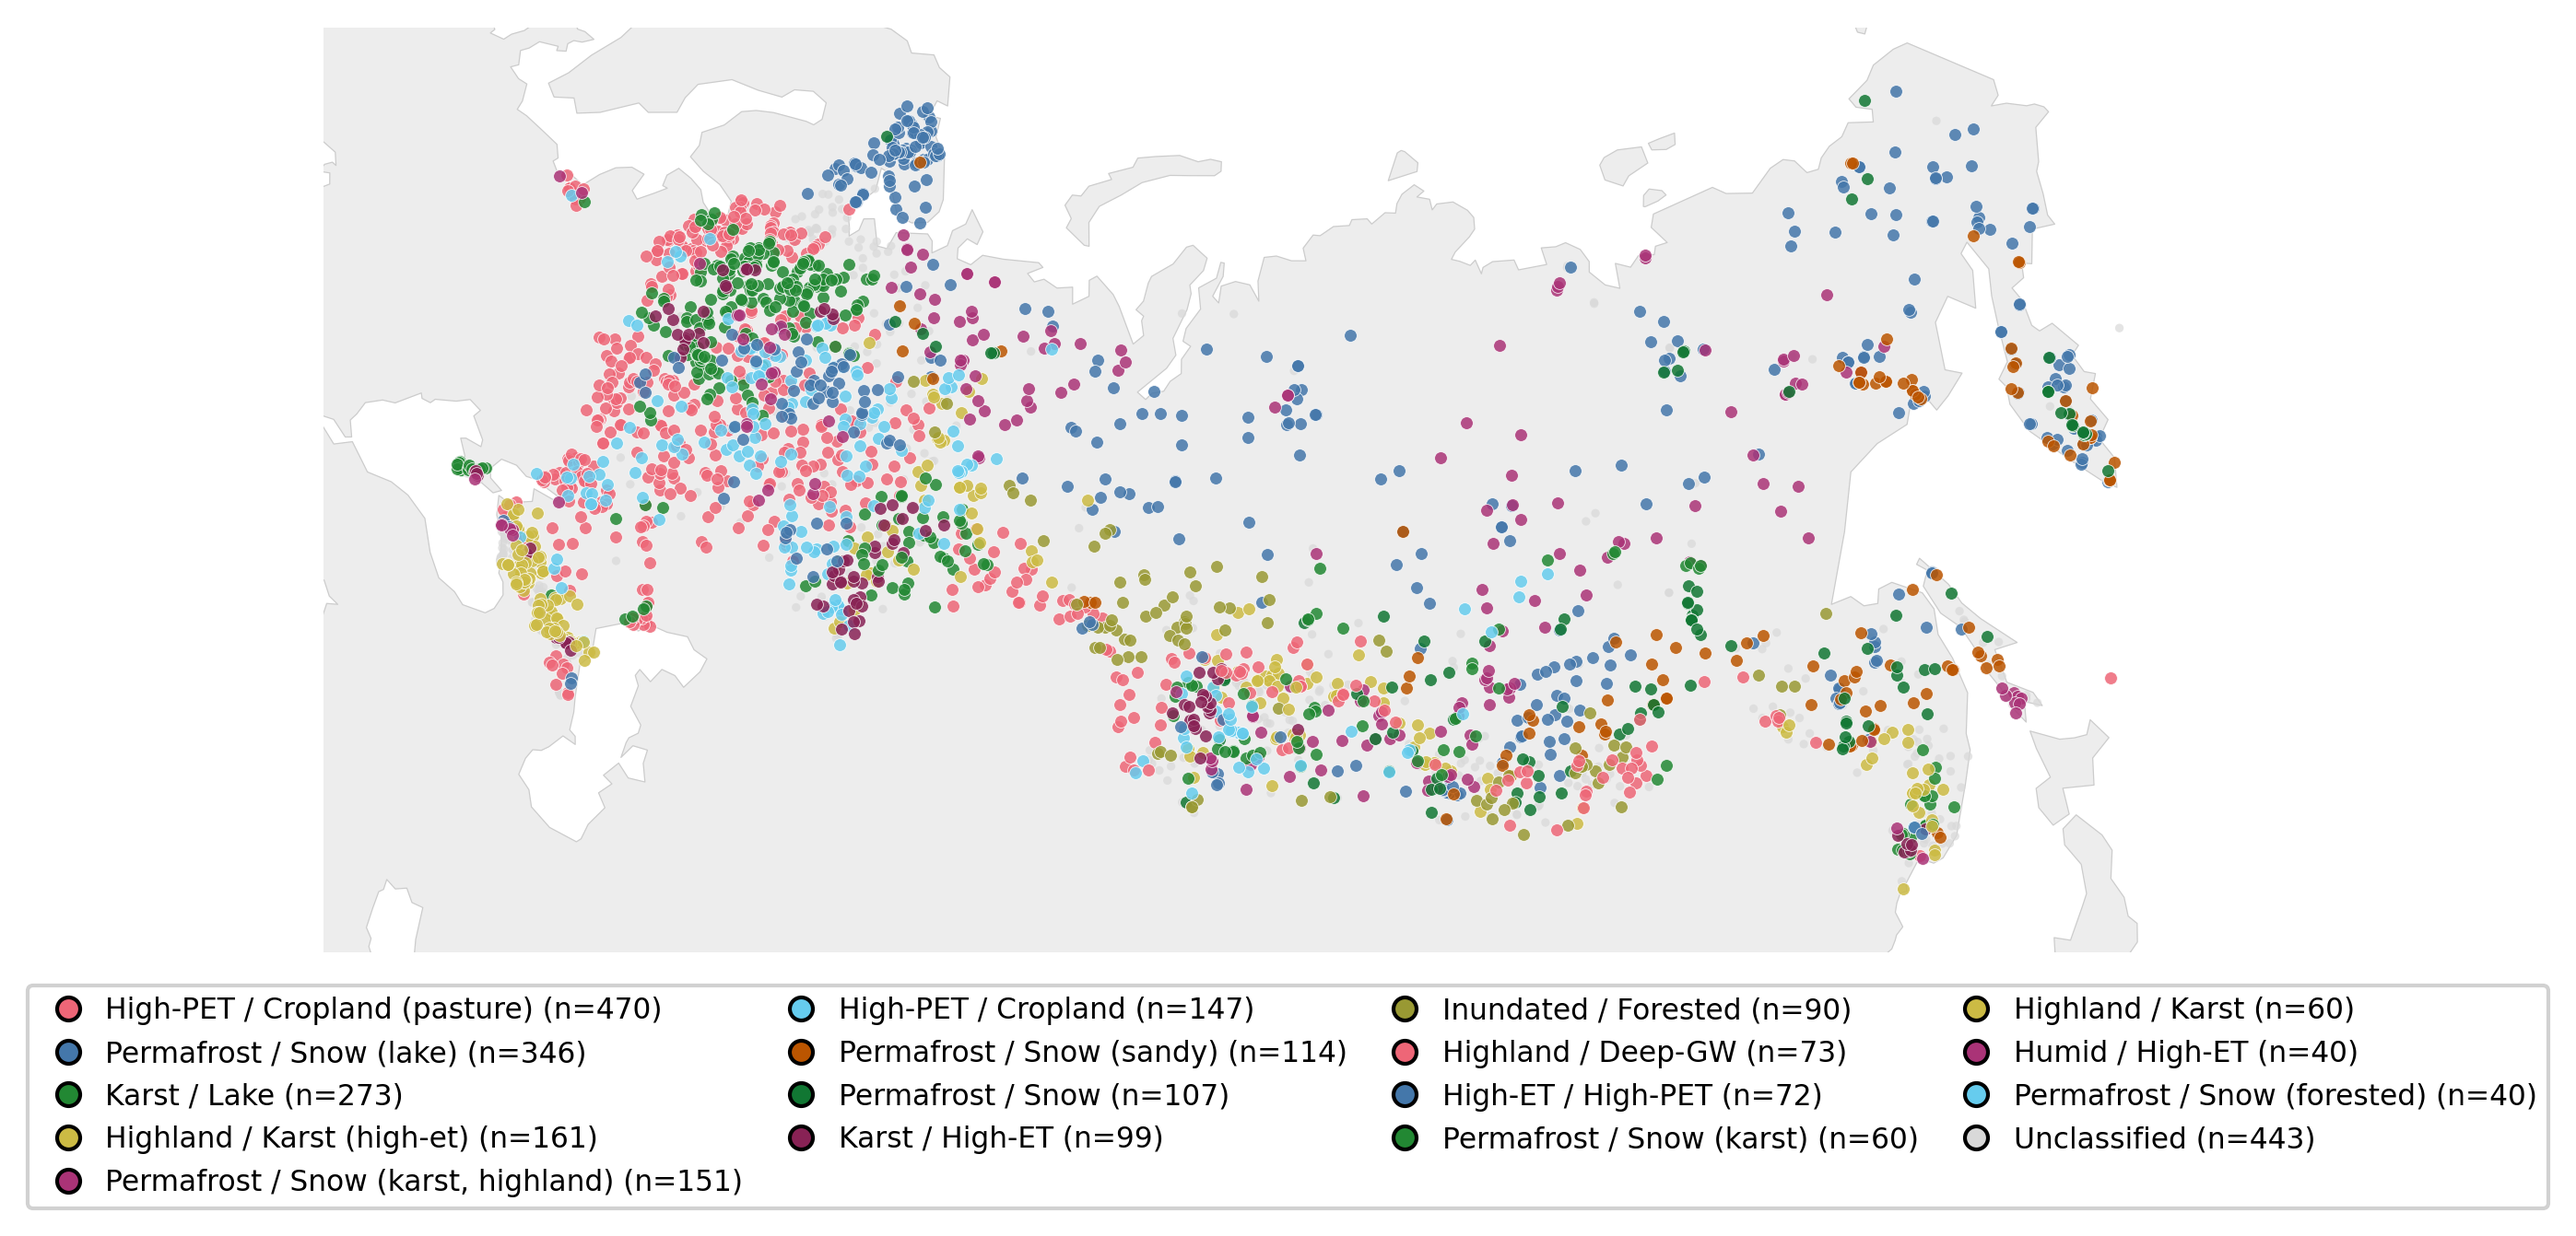
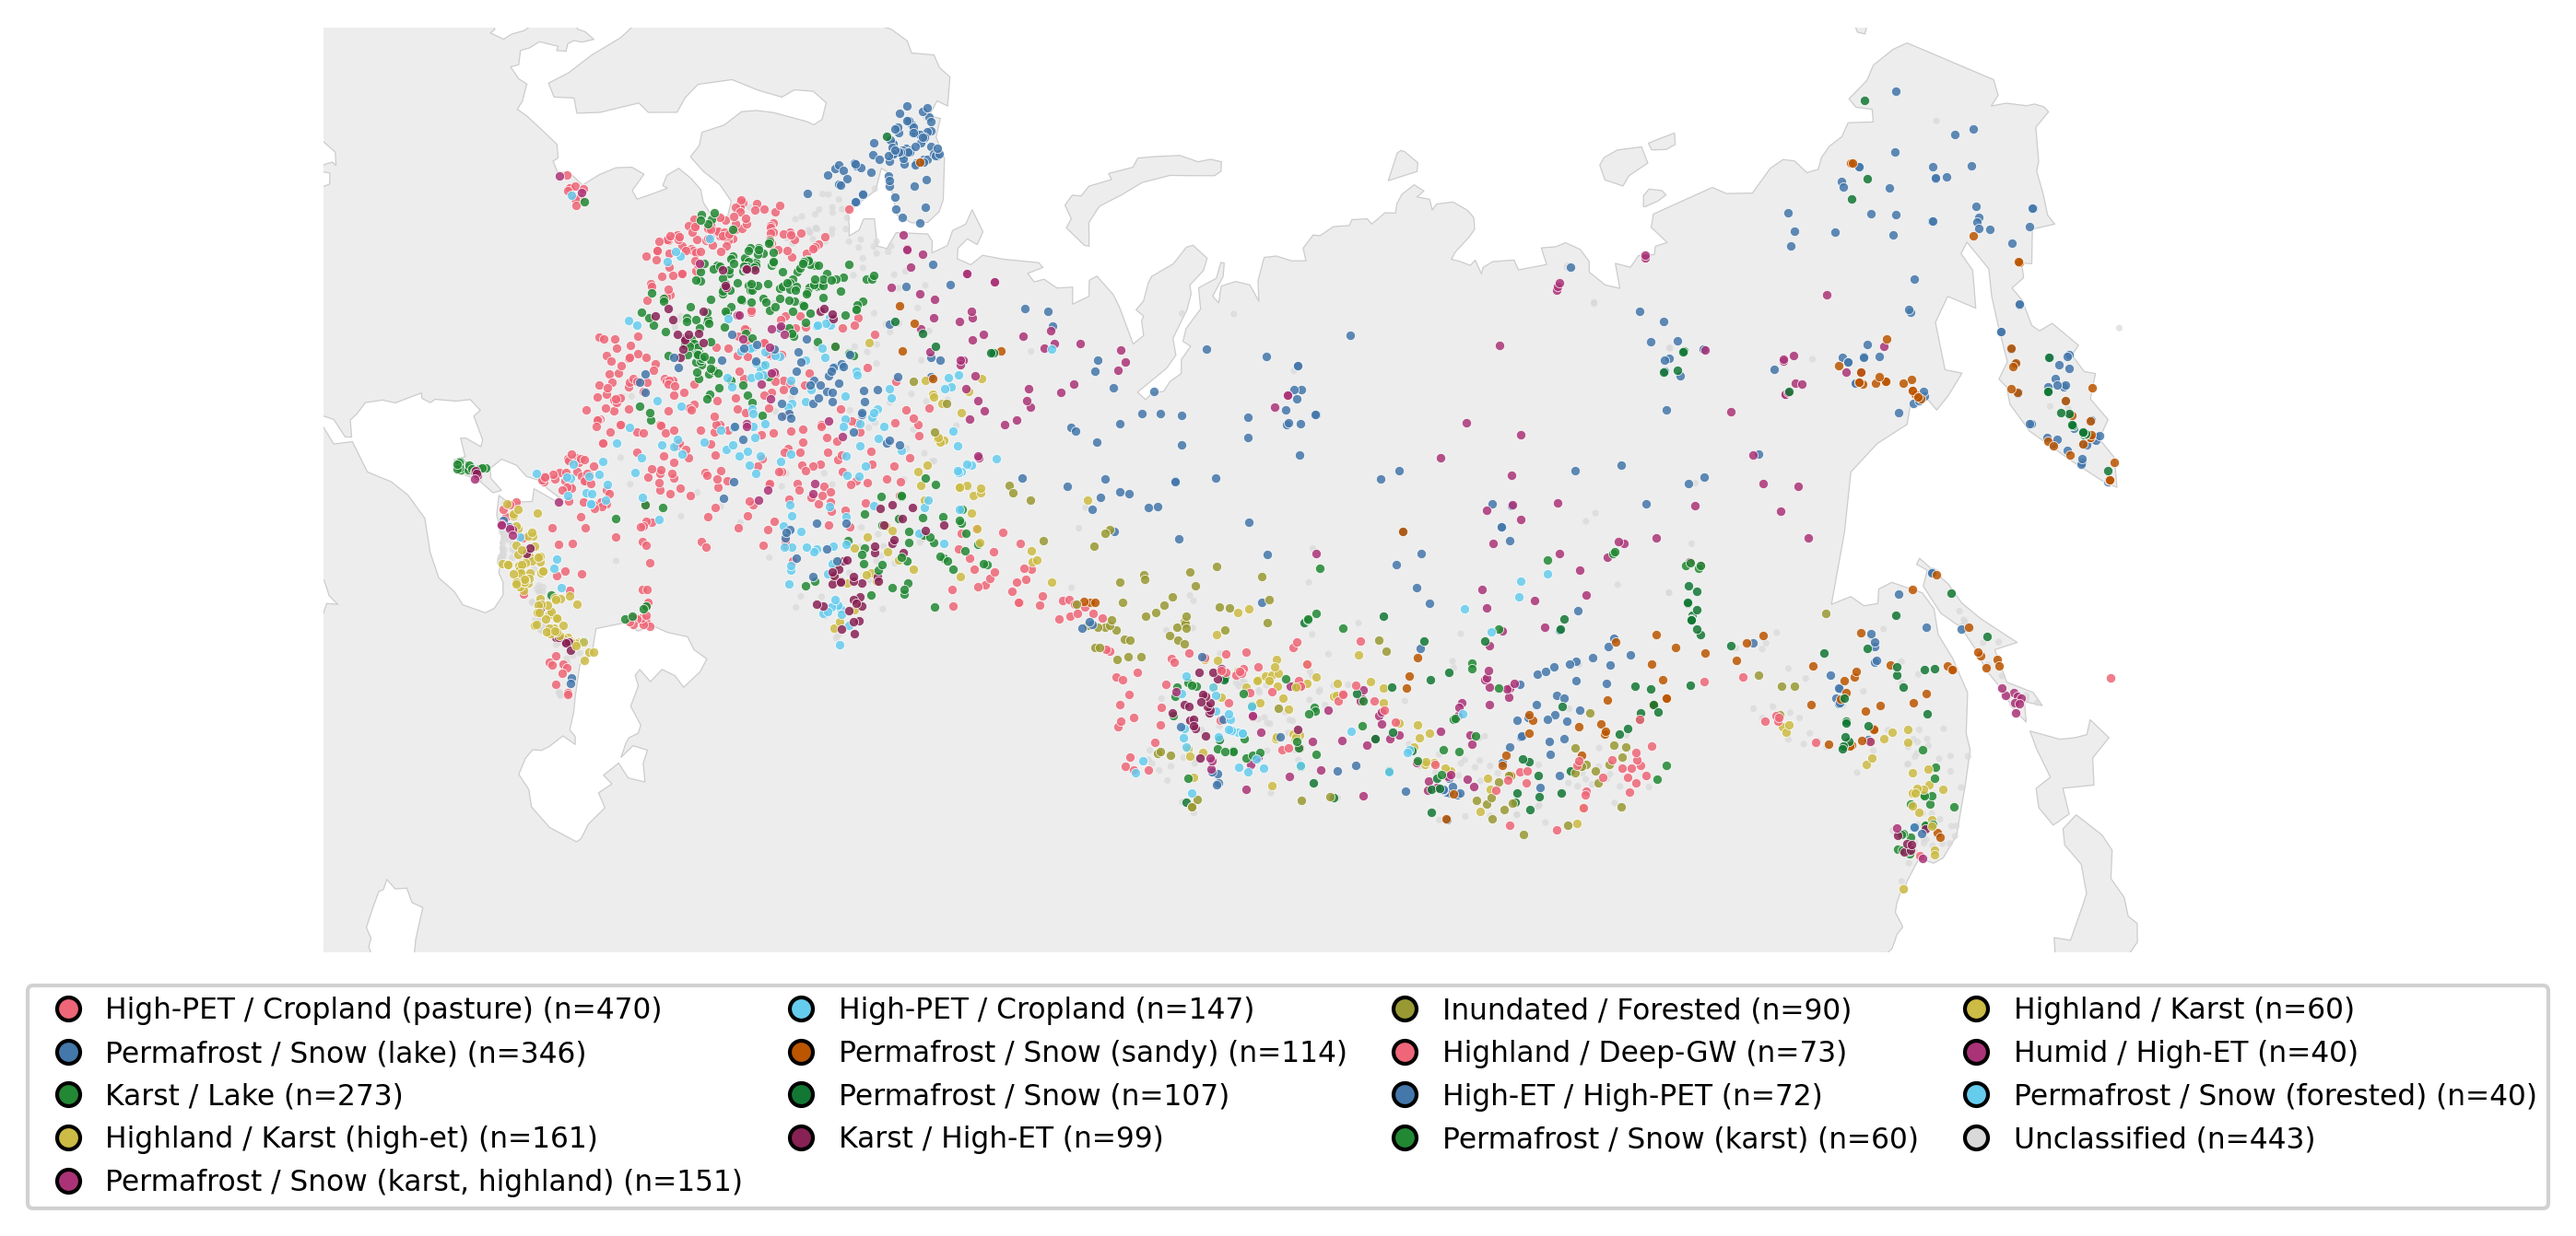
Smaller on-map markers (3 map scripts) + triad-dialogue verification record
- scripts/{cluster_endmembers,regenerate_regime_figures,regime_endmember_intersection}.py:
  reduced scatter marker sizes on the geographic maps; data/clustering unchanged.
- docs/dialogues/triad/2026-06-23-era5-temp-stale-cache-triad/: 3-vendor (Claude/Codex/Cursor)
  verification of the 2023-temp stale-cache fix. Converged turn 1. Outcome: diagnosis CONFIRMED
  (refined: 13 sub-5km² gauges hit the stale weight cache; 4 ≥5km² were cache-independent stale
  CSVs — both fixed by re-aggregation). Fix is release-safe. Three latent silent-failure patterns
  surfaced for follow-up: (1) --resume/detect_covered_months treats month-presence as data-validity
  → can silently skip re-aggregation network-wide; (2) _get_or_compute_weights cache not grid-keyed
  → bug recurs on next chronological run (durable fix needed); (3) package_forcing prefers
  era5_land_filled by file existence not forcing_notes membership (stale shadow cache can ship).
- Bump manuscript submodule (@ 7eb5fc3).

Claude-Session: https://claude.ai/code/session_01S7RmX8pNfnsAfuj5fC26Fx

diff --git a/scripts/regime_endmember_intersection.py b/scripts/regime_endmember_intersection.py
@@ -167,7 +167,7 @@ def plot_joint_map(ax, df: pd.DataFrame, gauge: gpd.GeoDataFrame) -> None:
     ax.scatter(
         g_rest.geometry.x,
         g_rest.geometry.y,
-        s=4,
+        s=2.5,
         c="#DcDcDc",
         edgecolors="none",
         zorder=2,
@@ -181,7 +181,7 @@ def plot_joint_map(ax, df: pd.DataFrame, gauge: gpd.GeoDataFrame) -> None:
         ax.scatter(
             g.geometry.x,
             g.geometry.y,
-            s=12,
+            s=7,
             c=col,
             edgecolors="white",
             linewidths=0.2,
@@ -226,9 +226,9 @@ def plot_agreement_map(ax, df: pd.DataFrame, gauge: gpd.GeoDataFrame, stats: dic
 
     cat = df.apply(status, axis=1)
     styles = {
-        "concordant": ("#117733", 11, f"Concordant (n={int((cat == 'concordant').sum())})"),
-        "discordant": ("#CC6677", 11, f"Discordant (n={int((cat == 'discordant').sum())})"),
-        "continuum": ("#BBBBBB", 5, f"Unclassified continuum (n={int((cat == 'continuum').sum())})"),
+        "concordant": ("#117733", 6, f"Concordant (n={int((cat == 'concordant').sum())})"),
+        "discordant": ("#CC6677", 6, f"Discordant (n={int((cat == 'discordant').sum())})"),
+        "continuum": ("#BBBBBB", 3, f"Unclassified continuum (n={int((cat == 'continuum').sum())})"),
     }
     handles = []
     for key in ("continuum", "discordant", "concordant"):  # continuum first = drawn underneath

diff --git a/scripts/regenerate_regime_figures.py b/scripts/regenerate_regime_figures.py
@@ -234,7 +234,7 @@ def plot_map_facets(gauge: gpd.GeoDataFrame, labels: pd.Series, out: Path) -> No
         ax.scatter(
             gdf.geometry.x,
             gdf.geometry.y,
-            s=2,
+            s=1.5,
             c="#DcDcDc",
             edgecolors="none",
             zorder=2,
@@ -244,7 +244,7 @@ def plot_map_facets(gauge: gpd.GeoDataFrame, labels: pd.Series, out: Path) -> No
         ax.scatter(
             sub.geometry.x,
             sub.geometry.y,
-            s=9,
+            s=5,
             c=_PALETTE15[c - 1],
             edgecolors="none",
             alpha=0.9,

diff --git a/scripts/cluster_endmembers.py b/scripts/cluster_endmembers.py
@@ -291,7 +291,7 @@ def write_map(subset, labels, profiles) -> None:
     ax.scatter(
         uncl.geometry.x,
         uncl.geometry.y,
-        s=5,
+        s=3,
         c="#D9D9D9",
         alpha=0.7,
         edgecolors="none",
@@ -305,7 +305,7 @@ def write_map(subset, labels, profiles) -> None:
         ax.scatter(
             sub.geometry.x,
             sub.geometry.y,
-            s=11,
+            s=6,
             c=col,
             alpha=0.85,
             edgecolors="white",
